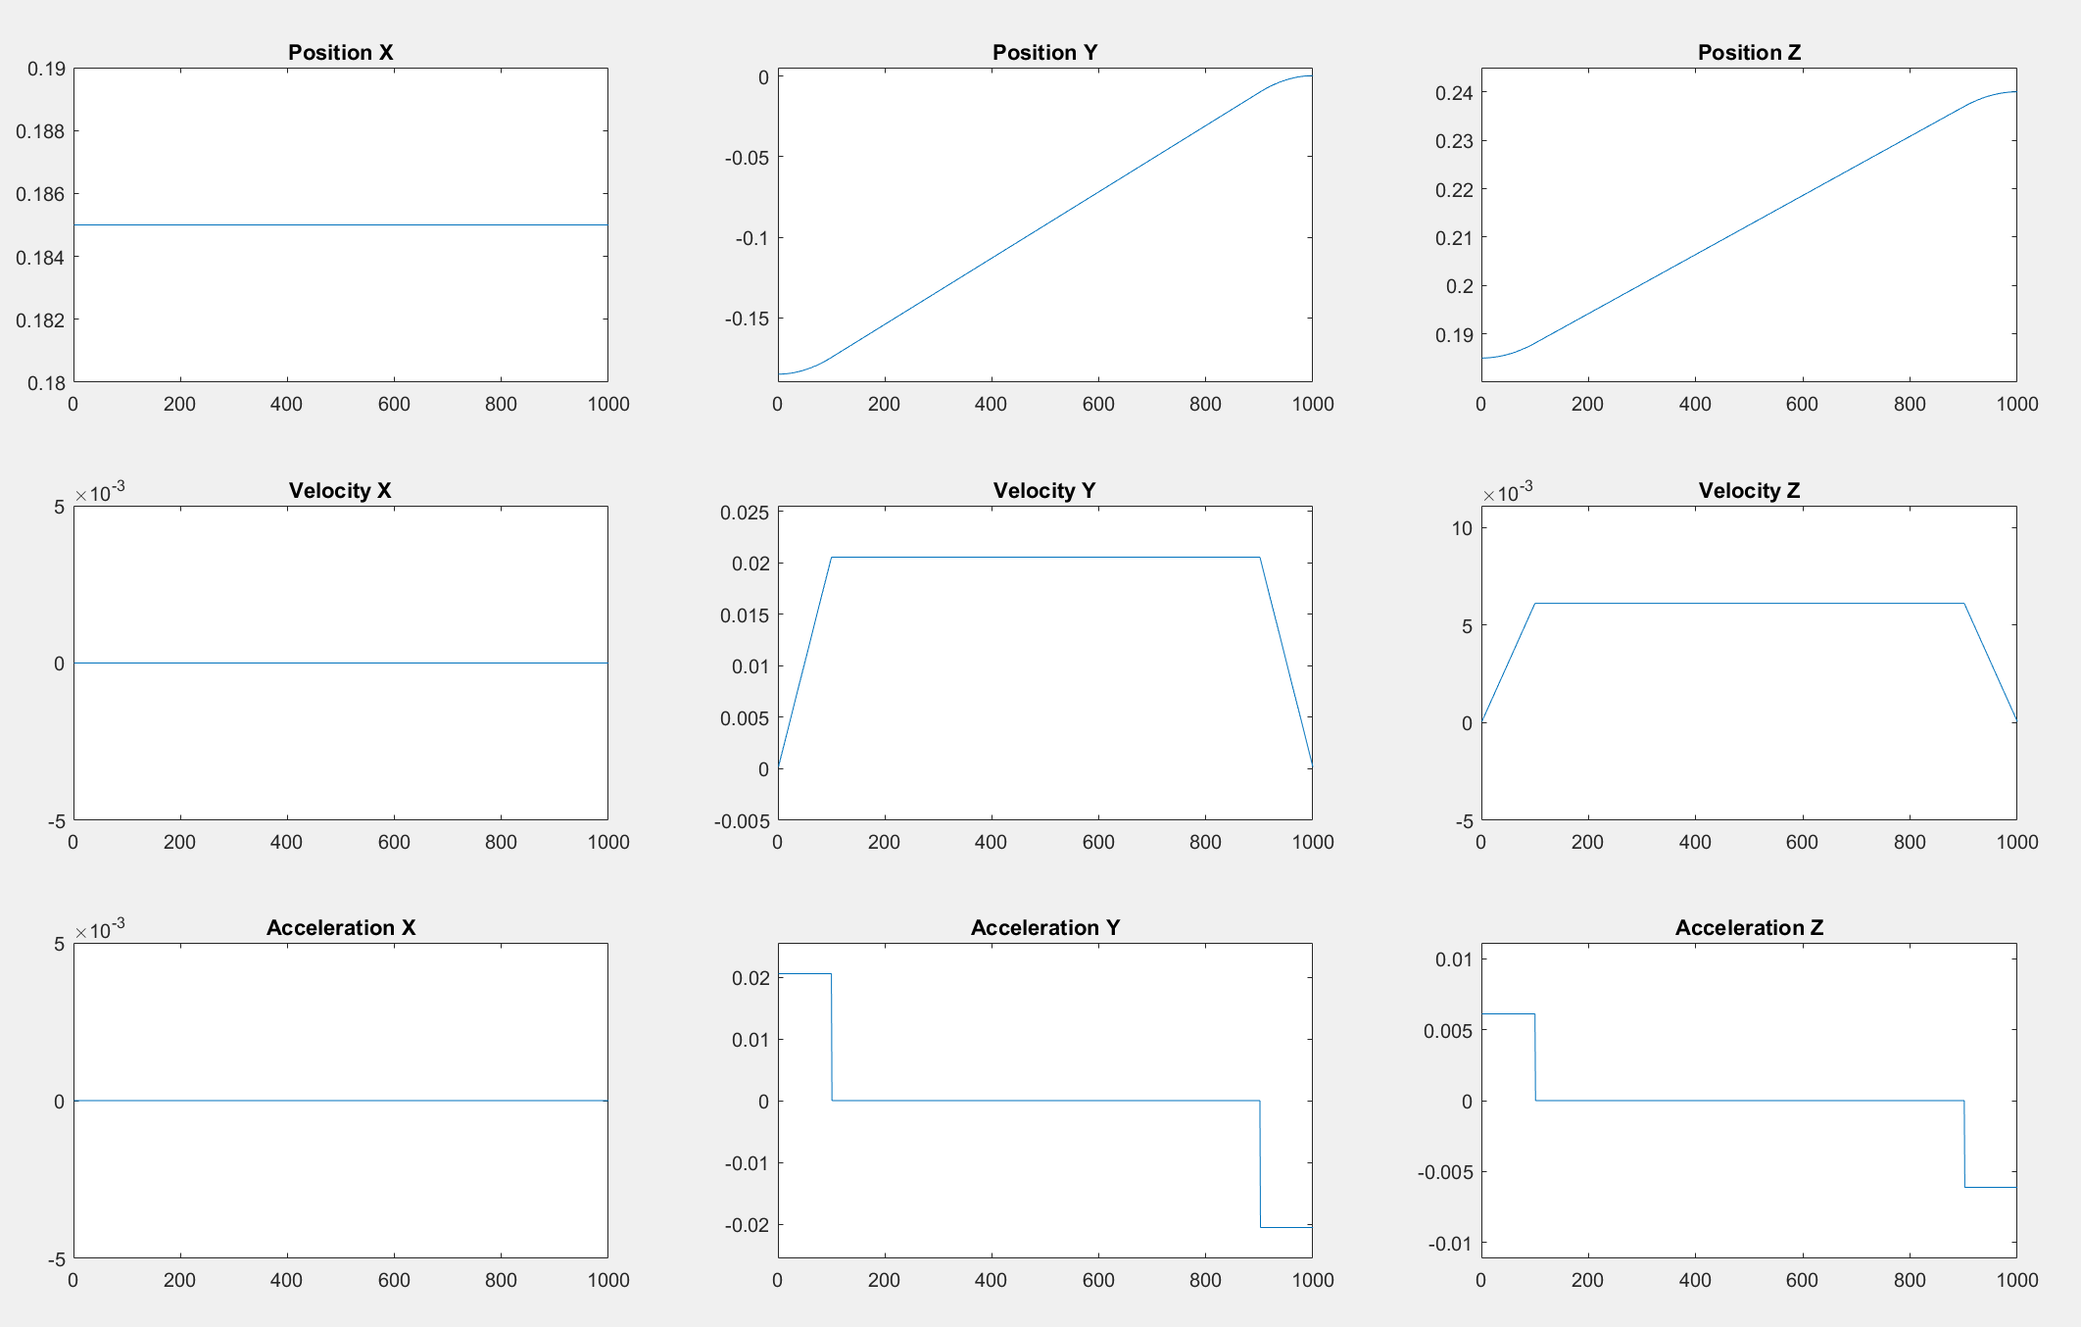
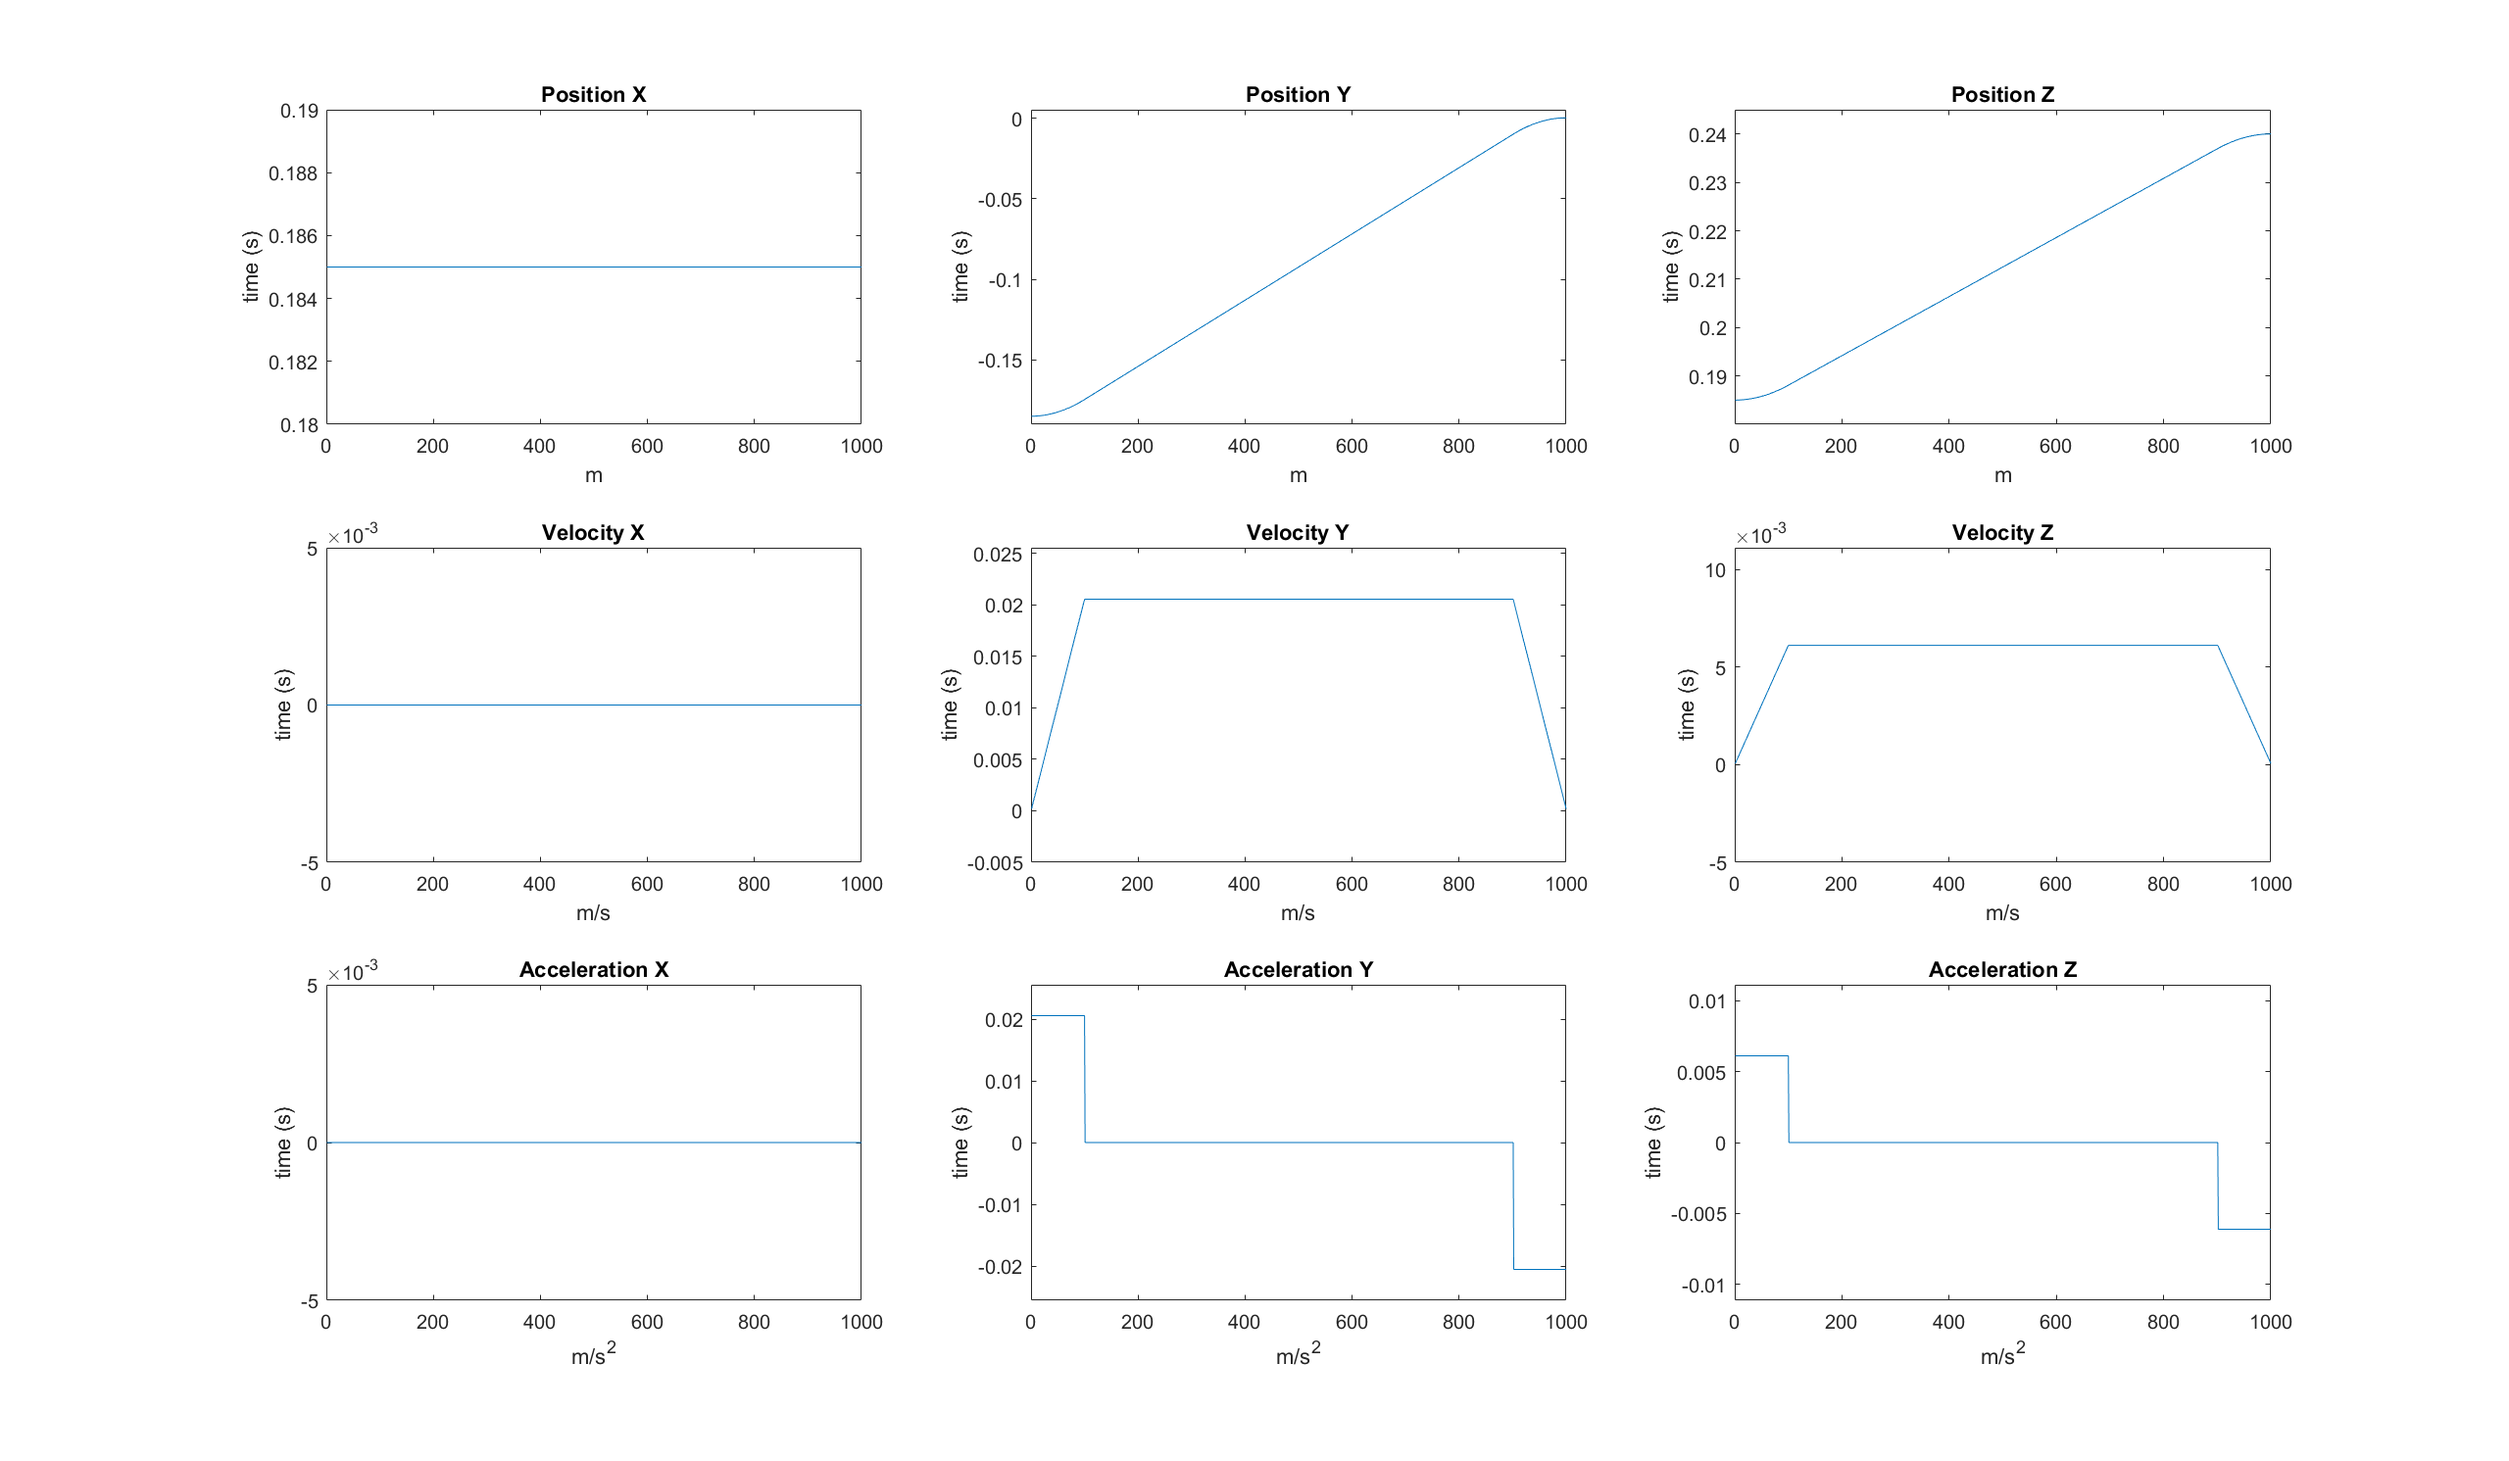
new tests and pics

diff --git a/src/Task_1_4_comparision.m b/src/Task_1_4_comparision.m
@@ -1,0 +1,101 @@
+close all
+clear all
+clc
+
+
+L0 = 0.096326;
+L1 = 0.128;
+L2 = 0.024;
+L3 = 0.124;
+L4 = 0.1334;
+
+s1 = [0,0,1,0,0,0].';
+s2 = [0,1,0,-L0,0,0].';
+s3 = [0,1,0,-L0-L1,0,L2].';
+s4 = [0,1,0,-L0-L1,0,L2+L3].';
+Slist = [s1,s2,s3,s4];
+
+% Input Mlist
+M01 = [[1, 0, 0, 0]; [0, 1, 0, 0]; [0, 0, 1, 0.0354]; [0, 0, 0, 1]];
+M12 = [[1, 0, 0, 0.003809]; [0, 1, 0, 0]; [0, 0 ,1, 0.163326]; [0, 0, 0, 1]];
+M23 = [[1, 0, 0, 0.11038]; [0, 1, 0, 0]; [0, 0, 1, 0.02676]; [0, 0, 0, 1]];
+M34 = [[1, 0, 0, 0.10038]; [0, 1, 0, 0]; [0, 0, 1, 0.003165]; [0, 0, 0, 1]];
+M45 = [[0, 0, 1, 0.06683]; [0, 1, 0, 0]; [-1, 0, 0, -0.003165]; [0, 0, 0, 1]];
+Mlist = cat(3, M01, M12, M23, M34, M45);
+
+% Input Glist
+Ixx1 = 0.00005359; % kg*m^2
+Iyy1 = 0.00005149;
+Izz1 = 0.00002604;
+Ixy1 = 0;
+Iyz1 = 0;
+Ixz1 = 0;
+m1 = 0.11584;
+
+Ixx2 = 0.00022943;
+Iyy2 = 0.00023236;
+Izz2 = 0.00005372;
+Ixy2 = 0;
+Iyz2 = 0;
+Ixz2 = 0.00002833;
+m2 = 0.143;
+
+Ixx3 = 0.00002916;
+Iyy3 = 0.00013968;
+Izz3 = 0.00015097;
+Ixy3 = 0;
+Iyz3 = 0;
+Ixz3 = 0;
+m3 = 0.122;
+
+Ixx4 = 0.00029155;
+Iyy4 = 0.00020877;
+Izz4 = 0.00019077;
+Ixy4 = 0;
+Iyz4 = 0;
+Ixz4 = 0;
+m4 = 0.225;
+
+G1 =  [[Ixx1, Ixy1, Ixz1, 0, 0, 0]; [Ixy1, Iyy1, Iyz1, 0, 0, 0]; ...
+    [Ixz1, Iyz1, Izz1, 0, 0, 0]; [0, 0, 0, m1, 0, 0]; ...
+    [0, 0, 0, 0, m1, 0]; [0, 0, 0, 0, 0, m1]];
+G2 =  [[Ixx2, Ixy2, Ixz2, 0, 0, 0]; [Ixy2, Iyy2, Iyz2, 0, 0, 0]; ...
+    [Ixz2, Iyz2, Izz2, 0, 0, 0]; [0, 0, 0, m2, 0, 0]; ...
+    [0, 0, 0, 0, m2, 0]; [0, 0, 0, 0, 0, m2]];
+G3 =  [[Ixx3, Ixy3, Ixz3, 0, 0, 0]; [Ixy3, Iyy3, Iyz3, 0, 0, 0]; ...
+    [Ixz3, Iyz3, Izz3, 0, 0, 0]; [0, 0, 0, m3, 0, 0]; ...
+    [0, 0, 0, 0, m3, 0]; [0, 0, 0, 0, 0, m3]];
+G4 =  [[Ixx4, Ixy4, Ixz4, 0, 0, 0]; [Ixy4, Iyy4, Iyz4, 0, 0, 0]; ...
+    [Ixz4, Iyz4, Izz4, 0, 0, 0]; [0, 0, 0, m4, 0, 0]; ...
+    [0, 0, 0, 0, m4, 0]; [0, 0, 0, 0, 0, m4]];
+Glist = cat(3, G1, G2, G3, G4);
+
+M = [[0,0,-1,L2+L3+L4];
+    [0,1,0,0];
+    [1,0,0,L0+L1];
+    [0,0,0,1]];
+
+phiA = -pi/4;
+phiB = atan2(0.17,0.185);
+T_A = [[0,-sin(phiA),-cos(phiA),0.185];
+    [0,cos(phiA),-sin(phiA),-0.185];
+    [1,0,0,0.185];
+    [0,0,0,1]];
+T_B = [[0,-sin(phiB),-cos(phiB),0.185];
+    [0,cos(phiB),-sin(phiB),0.170];
+    [1,0,0,0.07];
+    [0,0,0,1]];
+
+initial_guess = [0;0;0;0];
+eomg = 0.001;
+ev = 0.001;
+
+
+[qA,s] = IKinSpace(Slist,M,T_A,initial_guess,eomg,ev);
+
+[qB,s] = IKinSpace(Slist,M,T_B,initial_guess,eomg,ev);
+
+qDelta = (qA-qB);
+qMid = (qA-qB)+qA
+Ftip = [0; 0; 0; 0; 0; 0];
+taus = InverseDynamics(qMid,qDelta,[0;0;0;0],[0;0;-9.81],Ftip,Mlist,Glist,Slist)

diff --git a/src/LSBP_graphing_test.m b/src/LSBP_graphing_test.m
@@ -19,8 +19,8 @@ T_C = [[0,0,-1,0.185];
     [0,1,0,0];
     [1,0,0,0.24];
     [0,0,0,1]];
-initial_pos = tar_C;
-target_pos = tar_B;
+initial_pos = tar_A;
+target_pos = tar_C;
 buffer_percent = 0.10;
 buffer_time = target_time * buffer_percent;
 current_state = [initial_pos;0;0;0;0;0;0]; %x,y,z,vx,vy,vz,ax,ay,az
@@ -67,18 +67,24 @@ plot(pos_arr(:,1));
 ylim([min(pos_arr(:,1))-0.005,max(pos_arr(:,1))+0.005])
 xlim([0,iterations])
 title('Position X');
+xlabel("m");
+ylabel("time (s)")
 
 subplot(3, 3, 2);  % 3 rows, 3 columns, second subplot
 plot(pos_arr(:,2));
 ylim([min(pos_arr(:,2))-0.005,max(pos_arr(:,2))+0.005])
 xlim([0,iterations])
 title('Position Y');
+xlabel("m");
+ylabel("time (s)");
 
 subplot(3, 3, 3);  % 3 rows, 3 columns, third subplot
 plot(pos_arr(:,3));
 ylim([min(pos_arr(:,3))-0.005,max(pos_arr(:,3))+0.005])
 xlim([0,iterations])
 title('Position Z');
+xlabel("m");
+ylabel("time (s)");
 
 % Plot velocity data (second row)
 subplot(3, 3, 4);  % 3 rows, 3 columns, fourth subplot
@@ -86,18 +92,24 @@ plot(vel_arr(:,1));
 ylim([min(vel_arr(:,1))-0.005,max(vel_arr(:,1))+0.005])
 xlim([0,iterations])
 title('Velocity X');
+xlabel("m/s");
+ylabel("time (s)");
 
 subplot(3, 3, 5);  % 3 rows, 3 columns, fifth subplot
 plot(vel_arr(:,2));
 ylim([min(vel_arr(:,2))-0.005,max(vel_arr(:,2))+0.005])
 xlim([0,iterations])
 title('Velocity Y');
+xlabel("m/s");
+ylabel("time (s)");
 
 subplot(3, 3, 6);  % 3 rows, 3 columns, sixth subplot
 plot(vel_arr(:,3));
 ylim([min(vel_arr(:,3))-0.005,max(vel_arr(:,3))+0.005])
 xlim([0,iterations])
 title('Velocity Z');
+xlabel("m/s");
+ylabel("time (s)");
 
 % Plot acceleration data (third row)
 subplot(3, 3, 7);  % 3 rows, 3 columns, seventh subplot
@@ -105,15 +117,21 @@ plot(acc_arr(:,1));
 ylim([min(acc_arr(:,1))-0.005,max(acc_arr(:,1))+0.005])
 xlim([0,iterations])
 title('Acceleration X');
+xlabel("m/s^2");
+ylabel("time (s)");
 
 subplot(3, 3, 8);  % 3 rows, 3 columns, eighth subplot
 plot(acc_arr(:,2));
 ylim([min(acc_arr(:,2))-0.005,max(acc_arr(:,2))+0.005])
 xlim([0,iterations])
 title('Acceleration Y');
+xlabel("m/s^2");
+ylabel("time (s)");
 
 subplot(3, 3, 9);  % 3 rows, 3 columns, ninth subplot
 plot(acc_arr(:,3));
 ylim([min(acc_arr(:,3))-0.005,max(acc_arr(:,3))+0.005])
 xlim([0,iterations])
 title('Acceleration Z');
+xlabel("m/s^2");
+ylabel("time (s)");
